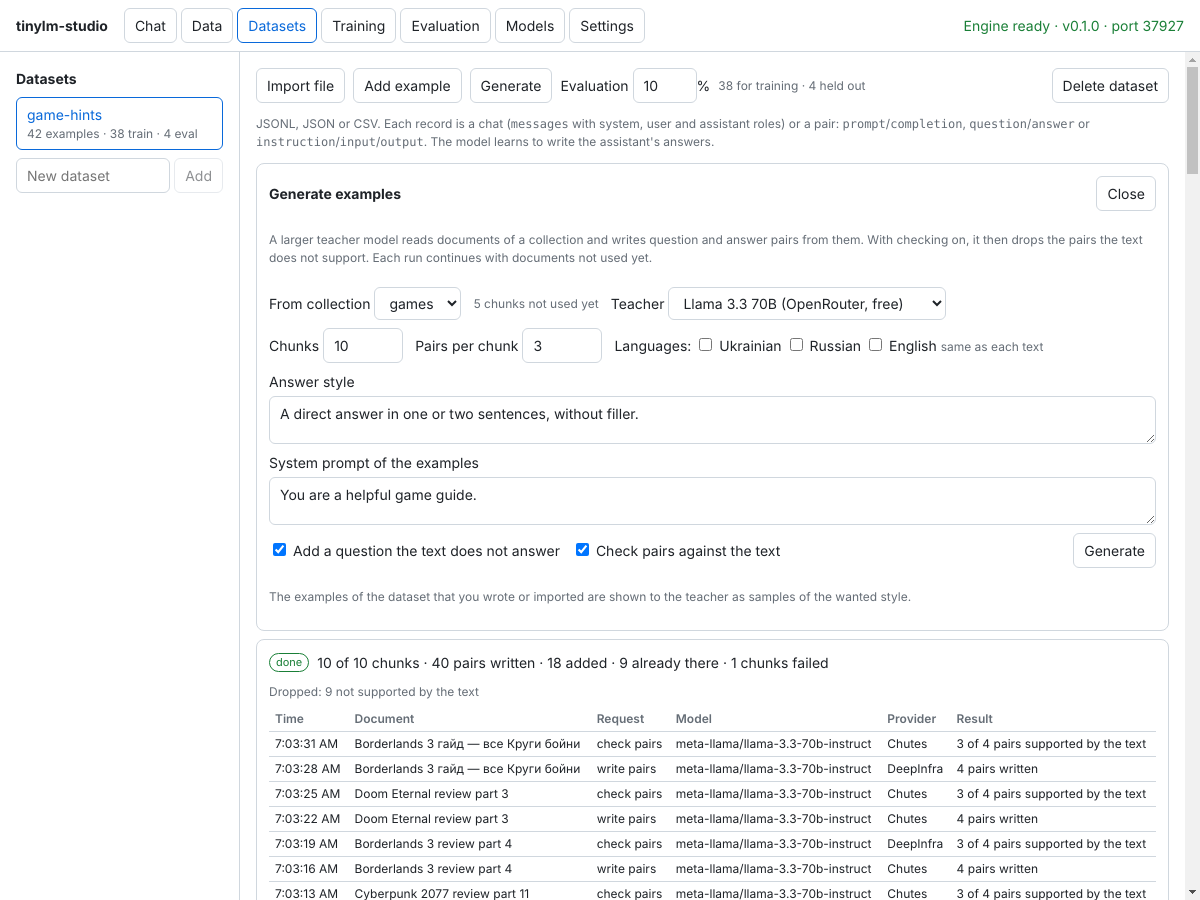
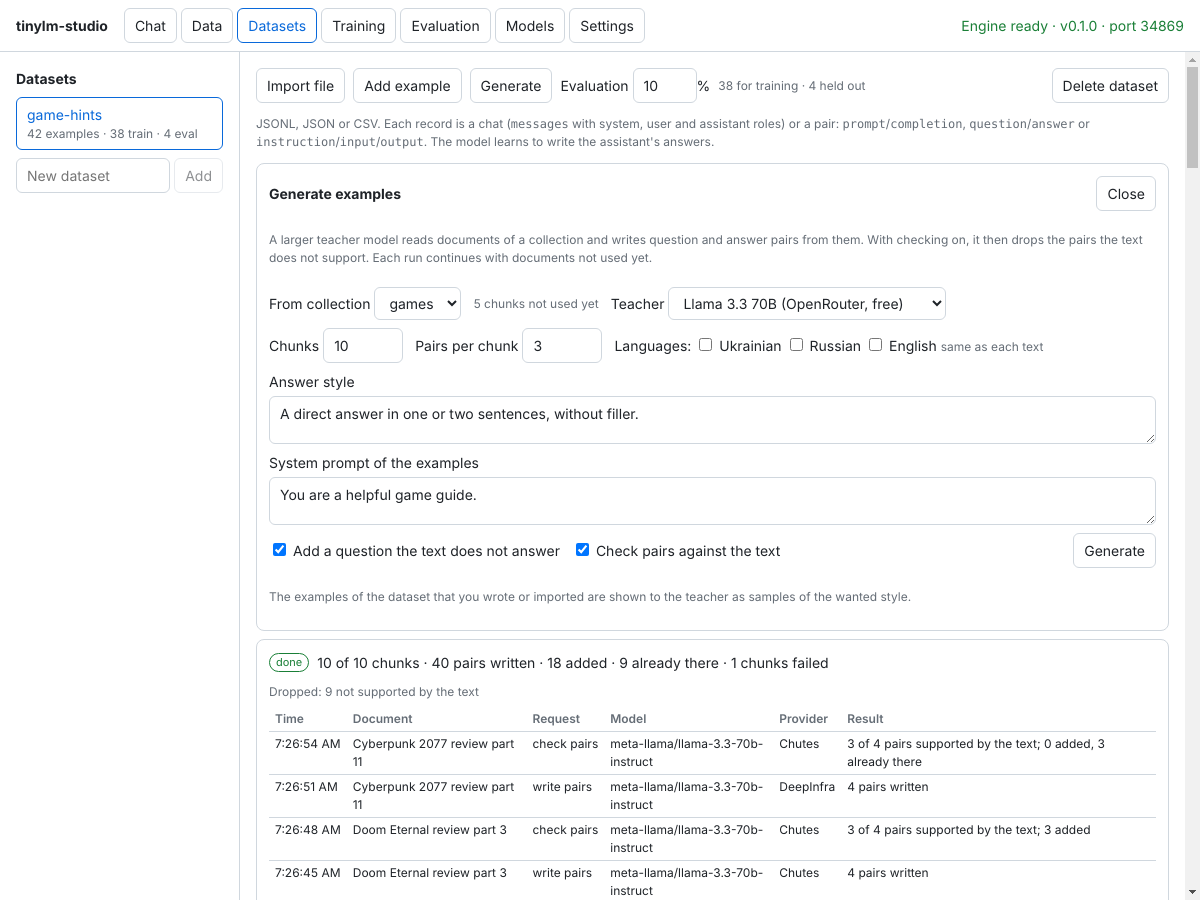
Drop the text log under generation; the requests table shows each chunk's result
The table of teacher requests already shows every request with its
model, provider and result, so the older text log repeated it. The
last request of each chunk now also says how many pairs were added and
how many were already in the dataset.

Claude-Session: https://claude.ai/code/session_01K6iyxnxtYDs5kNr5qmfTjK

Changed region(s): [[0.2158, 0.7778, 0.9558, 1.0], [0.8017, 0.0, 0.9867, 0.0622], [0.9867, 0.1867, 1.0, 0.2178]]

diff --git a/desktop/src/renderer/Generate.tsx b/desktop/src/renderer/Generate.tsx
@@ -260,7 +260,9 @@ function GenerationProgress({ job }: { job: GenerationJob }) {
       )}
       {job.error && <p className="error">{job.error}</p>}
       {job.requests.length > 0 && <TeacherRequests requests={job.requests} />}
-      {job.log.length > 0 && <pre className="muted">{job.log.slice(-12).join("\n")}</pre>}
+      {job.state !== "running" && job.chunks_total === 0 && (
+        <span className="muted">No chunks of this collection are left unused for this dataset.</span>
+      )}
     </div>
   );
 }

diff --git a/engine/src/engine/datasets/generate.py b/engine/src/engine/datasets/generate.py
@@ -352,6 +352,11 @@ class Generator:
                 added += 1
         job.added += added
         job.duplicates += duplicates
+        # The table of requests shows what each chunk finally gave.
+        request = job.requests[-1]
+        request["result"] += f"; {added} added" + (
+            f", {duplicates} already there" if duplicates else ""
+        )
         self._used(job.dataset, chunk["id"])
         job.note(f"added    {added} from {chunk['name']}")
 

diff --git a/engine/tests/test_generate.py b/engine/tests/test_generate.py
@@ -252,7 +252,7 @@ def test_generate_examples(library, teacher_server, kind):
     ]
     assert requests == [
         ("write", model, provider, True, "5 pairs written"),
-        ("check", model, provider, True, "2 of 3 pairs supported by the text"),
+        ("check", model, provider, True, "2 of 3 pairs supported by the text; 2 added"),
     ]
 
     # The prompt carried the style: instructions, language and the hand-written example.

diff --git a/docs/user-guide.md b/docs/user-guide.md
@@ -200,7 +200,8 @@ The progress shows chunks read, pairs written and added, duplicates, and why pai
 (wrong language, too short or long, not supported by the text). Below it, every request to
 the teacher is listed, newest first (the last 10; **Show all** for the rest): the time, the
 document, whether it wrote the pairs or checked them, the **model** and **provider** that
-answered, and the result (pairs written, pairs supported by the text) or, in red, the error.
+answered, and the result (pairs written, pairs supported by the text and how many of them
+were added) or, in red, the error.
 Model and provider are what the API reports: OpenRouter can route a request to another model
 than the one asked for (`openrouter/auto`, fallbacks) and to one of several upstream providers,
 and names the provider in its errors too; when an answer names none, the model asked for is
